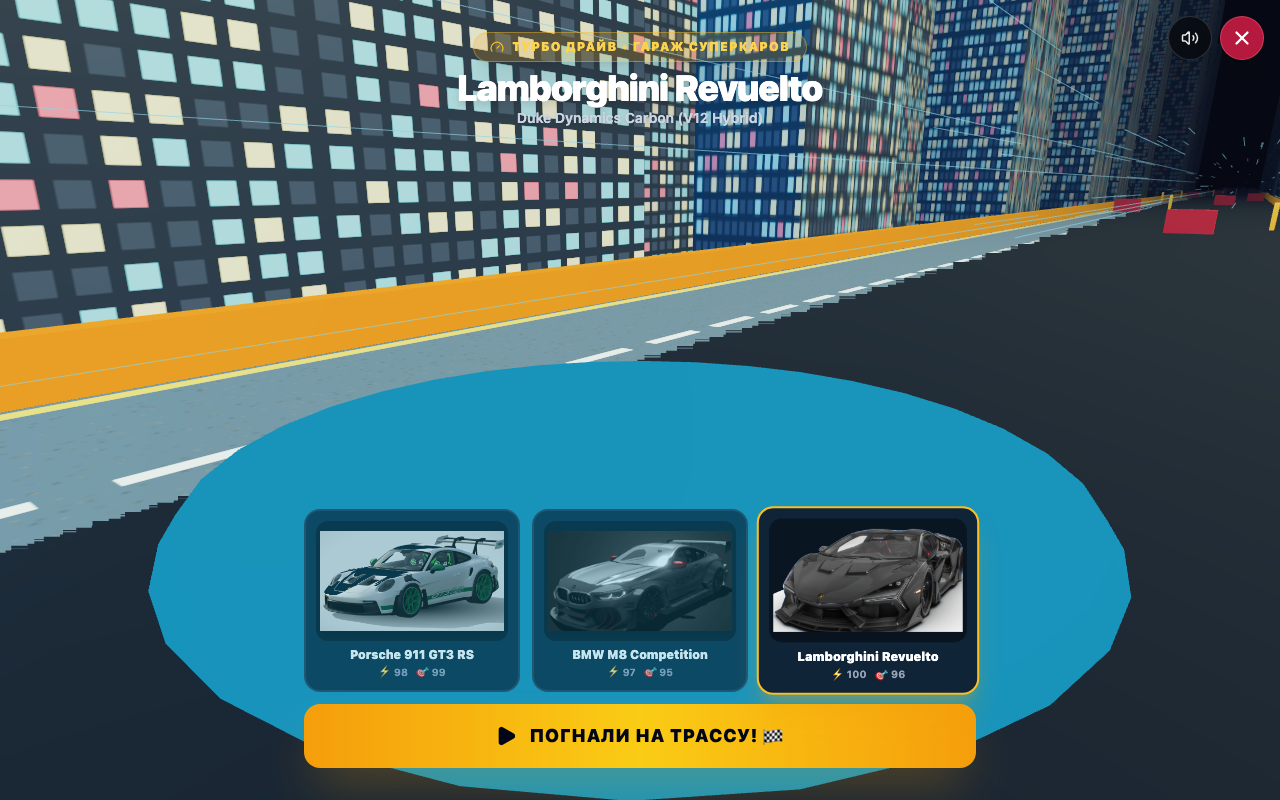
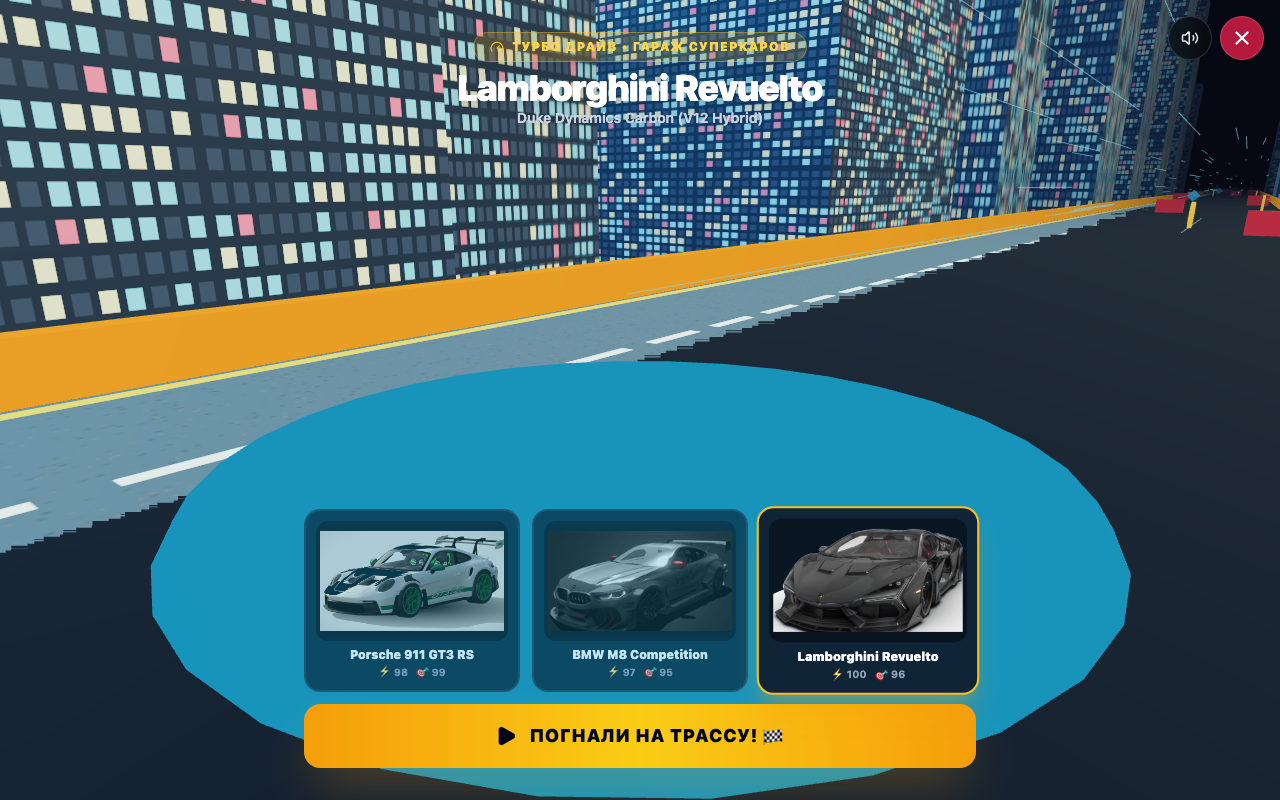
fix: eliminate directional shadow map stair-stepping on road, add collision jump bounce without shrinking, double gameplay duration with gentle progressive speed curve

diff --git a/app/components/games/CarHighwayGame.tsx b/app/components/games/CarHighwayGame.tsx
@@ -34,7 +34,7 @@ const CARS: CarInfo[] = [
     speedStat: 98,
     handlingStat: 99,
     nitroStat: 95,
-    scale: 3.0,
+    scale: 3.1,
     rotationY: Math.PI,
     yOffset: 0.02,
   },
@@ -47,7 +47,7 @@ const CARS: CarInfo[] = [
     speedStat: 97,
     handlingStat: 95,
     nitroStat: 97,
-    scale: 3.1,
+    scale: 3.2,
     rotationY: 0,
     yOffset: 0.02,
   },
@@ -60,13 +60,13 @@ const CARS: CarInfo[] = [
     speedStat: 100,
     handlingStat: 96,
     nitroStat: 99,
-    scale: 3.1,
+    scale: 3.2,
     rotationY: 0,
     yOffset: 0.03,
   },
 ];
 
-// Single Baked 4-Lane Asphalt Road Texture (Zero Z-Fighting)
+// Single Baked 4-Lane Asphalt Road Texture (Zero Z-Fighting, Zero Shadow Glitches)
 function generateHighwayTextures() {
   const roadCanvas = document.createElement("canvas");
   roadCanvas.width = 512;
@@ -78,7 +78,7 @@ function generateHighwayTextures() {
     rCtx.fillRect(0, 0, 512, 512);
 
     // Fine asphalt grain noise
-    for (let i = 0; i < 6000; i++) {
+    for (let i = 0; i < 7000; i++) {
       const x = Math.random() * 512;
       const y = Math.random() * 512;
       const g = Math.floor(25 + Math.random() * 22);
@@ -306,7 +306,7 @@ interface CarHighwayGameProps {
 export default function CarHighwayGame({
   onClose,
   onVictory,
-  targetScore = 300,
+  targetScore = 500, // Doubled duration for long satisfying race!
 }: CarHighwayGameProps) {
   const mountRef = useRef<HTMLDivElement | null>(null);
   const audioSysRef = useRef<CarAudioSystem>(new CarAudioSystem());
@@ -330,11 +330,12 @@ export default function CarHighwayGame({
     score: 0,
     stars: 0,
     hearts: 3,
-    baseSpeed: 42,
-    speed: 42,
+    baseSpeed: 38,
+    speed: 38,
     targetX: 1.25,
     playerX: 1.25,
     playerZ: -4.2, // Pushed forward so 100% of car body is visible in viewport!
+    jumpY: 0,
     roadWidth: 10.0,
     roadLength: 500,
     invincibleTimer: 0,
@@ -375,6 +376,7 @@ export default function CarHighwayGame({
     }
     gameRef.current.targetX = 1.25;
     gameRef.current.playerX = 1.25;
+    gameRef.current.jumpY = 0;
 
     if (gameRef.current.turntableMesh) {
       gameRef.current.turntableMesh.visible = false;
@@ -399,6 +401,7 @@ export default function CarHighwayGame({
     gameRef.current.speed = gameRef.current.baseSpeed;
     gameRef.current.playerX = 1.25;
     gameRef.current.targetX = 1.25;
+    gameRef.current.jumpY = 0;
 
     if (gameRef.current.camera) {
       gameRef.current.camera.position.set(2.8, 1.8, 1.8);
@@ -428,6 +431,7 @@ export default function CarHighwayGame({
     gameRef.current.speed = gameRef.current.baseSpeed;
     gameRef.current.playerX = 1.25;
     gameRef.current.targetX = 1.25;
+    gameRef.current.jumpY = 0;
     gameRef.current.invincibleTimer = 0;
 
     if (gameRef.current.camera) {
@@ -491,8 +495,6 @@ export default function CarHighwayGame({
 
         model.traverse((child) => {
           if ((child as THREE.Mesh).isMesh) {
-            child.castShadow = true;
-            child.receiveShadow = true;
             const mat = (child as THREE.Mesh).material as THREE.MeshStandardMaterial;
             if (mat && car.id === "lambo") {
               mat.roughness = 0.22;
@@ -531,7 +533,7 @@ export default function CarHighwayGame({
     // 1. Scene
     const scene = new THREE.Scene();
     scene.background = new THREE.Color(0x060913);
-    scene.fog = new THREE.FogExp2(0x0a101f, 0.01);
+    scene.fog = new THREE.FogExp2(0x0a101f, 0.008);
     gameRef.current.scene = scene;
 
     // 2. Camera
@@ -540,32 +542,27 @@ export default function CarHighwayGame({
     camera.lookAt(0, 0.5, -1.8);
     gameRef.current.camera = camera;
 
-    // 3. Renderer
+    // 3. Renderer (Clean 60fps, No shadow-map stair-stepping glitches)
     const renderer = new THREE.WebGLRenderer({ antialias: true, alpha: false, powerPreference: "high-performance" });
     renderer.setSize(width, height);
     renderer.setPixelRatio(Math.min(window.devicePixelRatio, 2));
-    renderer.shadowMap.enabled = true;
-    renderer.shadowMap.type = THREE.PCFSoftShadowMap;
     renderer.toneMapping = THREE.ACESFilmicToneMapping;
     renderer.toneMappingExposure = 1.35;
     container.appendChild(renderer.domElement);
 
     // 4. Lighting
-    const hemiLight = new THREE.HemisphereLight(0x7dd3fc, 0x1e1b4b, 2.0);
+    const hemiLight = new THREE.HemisphereLight(0x7dd3fc, 0x1e1b4b, 2.2);
     scene.add(hemiLight);
 
-    const sunLight = new THREE.DirectionalLight(0xfef08a, 3.2);
+    const sunLight = new THREE.DirectionalLight(0xfef08a, 2.6);
     sunLight.position.set(25, 45, -15);
-    sunLight.castShadow = true;
-    sunLight.shadow.mapSize.width = 1024;
-    sunLight.shadow.mapSize.height = 1024;
     scene.add(sunLight);
 
-    const rimLight = new THREE.DirectionalLight(0x38bdf8, 2.4);
+    const rimLight = new THREE.DirectionalLight(0x38bdf8, 2.2);
     rimLight.position.set(-25, 20, 20);
     scene.add(rimLight);
 
-    const spotLight = new THREE.SpotLight(0xffffff, 5.0, 30, Math.PI / 4, 0.3);
+    const spotLight = new THREE.SpotLight(0xffffff, 4.0, 30, Math.PI / 4, 0.3);
     spotLight.position.set(0, 12, -1.8);
     spotLight.target.position.set(0, 0, -1.8);
     scene.add(spotLight);
@@ -587,7 +584,6 @@ export default function CarHighwayGame({
     const roadMesh = new THREE.Mesh(roadGeo, roadMat);
     roadMesh.rotation.x = -Math.PI / 2;
     roadMesh.position.set(0, 0, -roadLength / 2 + 20);
-    roadMesh.receiveShadow = true;
     scene.add(roadMesh);
 
     // Glowing Bridge Guardrails (at x = -5.15 and +5.15)
@@ -730,7 +726,6 @@ export default function CarHighwayGame({
 
       const barrierMesh = new THREE.Mesh(barrierGeo, barrierMat);
       barrierMesh.position.set(LANES[obstacleLane1], 0.45, zPos);
-      barrierMesh.castShadow = true;
       scene.add(barrierMesh);
       itemsPool.push({
         mesh: barrierMesh,
@@ -854,7 +849,8 @@ export default function CarHighwayGame({
       }
 
       if (gameRef.current.running) {
-        const speedFactor = 1 + Math.min(gameRef.current.score / 220, 1.4);
+        // Progressive gentle speed curve (max 1.35x cap, steady comfortable duration!)
+        const speedFactor = 1 + Math.min(gameRef.current.score / 400, 0.35);
         gameRef.current.speed = gameRef.current.baseSpeed * speedFactor;
         setSpeedMultiplier(parseFloat(speedFactor.toFixed(1)));
         audioSysRef.current.updateEnginePitch(speedFactor);
@@ -880,10 +876,15 @@ export default function CarHighwayGame({
         carRoot.position.x = gameRef.current.playerX;
         carRoot.position.z = gameRef.current.playerZ;
 
+        // Jump impulse decay
+        if (gameRef.current.jumpY > 0) {
+          gameRef.current.jumpY = Math.max(0, gameRef.current.jumpY - delta * 2.2);
+        }
+
         const steerRoll = -dx * 0.18;
         carRoot.rotation.z = THREE.MathUtils.lerp(carRoot.rotation.z, steerRoll, delta * 14);
         carRoot.rotation.y = THREE.MathUtils.lerp(carRoot.rotation.y, dx * 0.15, delta * 12);
-        carRoot.position.y = 0.04 + Math.sin(time * 30) * 0.008;
+        carRoot.position.y = 0.04 + gameRef.current.jumpY + Math.sin(time * 30) * 0.008;
 
         if (gameRef.current.invincibleTimer > 0) {
           gameRef.current.invincibleTimer -= delta;
@@ -945,10 +946,9 @@ export default function CarHighwayGame({
                 item.mesh.visible = false;
                 gameRef.current.hearts -= 1;
                 gameRef.current.invincibleTimer = 1.6;
+                gameRef.current.jumpY = 0.35; // Nice bouncy collision jump that smoothly settles back down!
                 audioSysRef.current.playCrash();
                 setHearts(gameRef.current.hearts);
-
-                camera.position.y += 0.35;
 
                 if (gameRef.current.hearts <= 0) {
                   gameRef.current.running = false;
@@ -1178,7 +1178,7 @@ export default function CarHighwayGame({
         )}
       </AnimatePresence>
 
-      {/* GAME OVER MODAL (WIDE, SPACIOUS, MATCHES DESIGN SYSTEM) */}
+      {/* GAME OVER MODAL */}
       <AnimatePresence>
         {gameState === "gameover" && (
           <motion.div

diff --git a/app/components/games/DragonSnowGame.tsx b/app/components/games/DragonSnowGame.tsx
@@ -22,7 +22,6 @@ function createWinterPineTree() {
   const trunkMat = new THREE.MeshStandardMaterial({ color: 0x3f2d21, roughness: 0.9 });
   const trunk = new THREE.Mesh(trunkGeo, trunkMat);
   trunk.position.y = 1.1;
-  trunk.castShadow = true;
   tree.add(trunk);
 
   const foliageMat = new THREE.MeshStandardMaterial({ color: 0x164e3b, roughness: 0.85, flatShading: true });
@@ -37,7 +36,6 @@ function createWinterPineTree() {
   layers.forEach((l) => {
     const cone = new THREE.Mesh(new THREE.ConeGeometry(l.r, l.h, 7), foliageMat);
     cone.position.y = l.y;
-    cone.castShadow = true;
     tree.add(cone);
 
     const cap = new THREE.Mesh(new THREE.ConeGeometry(l.r * 0.82, l.h * 0.45, 7), snowCapMat);
@@ -153,7 +151,7 @@ class SoundEngine {
 export default function DragonSnowGame({
   onClose,
   onVictory,
-  targetScore = 300,
+  targetScore = 500, // Doubled duration for long satisfying run!
 }: DragonSnowGameProps) {
   const mountRef = useRef<HTMLDivElement | null>(null);
   const soundEngineRef = useRef<SoundEngine>(new SoundEngine());
@@ -179,6 +177,7 @@ export default function DragonSnowGame({
     targetX: 0,
     playerX: 0,
     playerZ: -2.0,
+    jumpY: 0,
     gullyRadius: 4.8,
     gullyDepth: 1.2,
     slopeDropRatio: 0.18,
@@ -226,6 +225,7 @@ export default function DragonSnowGame({
     gameRef.current.speed = gameRef.current.baseSpeed;
     gameRef.current.playerX = 0;
     gameRef.current.targetX = 0;
+    gameRef.current.jumpY = 0;
     gameRef.current.invincibleTimer = 0;
 
     gameRef.current.items.forEach((item, idx) => {
@@ -259,21 +259,16 @@ export default function DragonSnowGame({
     const renderer = new THREE.WebGLRenderer({ antialias: true, alpha: false, powerPreference: "high-performance" });
     renderer.setSize(width, height);
     renderer.setPixelRatio(Math.min(window.devicePixelRatio, 2));
-    renderer.shadowMap.enabled = true;
-    renderer.shadowMap.type = THREE.PCFSoftShadowMap;
     renderer.toneMapping = THREE.ACESFilmicToneMapping;
     renderer.toneMappingExposure = 1.3;
     container.appendChild(renderer.domElement);
 
     // 4. Lighting
-    const hemiLight = new THREE.HemisphereLight(0xf0f9ff, 0x1e3a8a, 1.8);
+    const hemiLight = new THREE.HemisphereLight(0xf0f9ff, 0x1e3a8a, 2.0);
     scene.add(hemiLight);
 
-    const sunLight = new THREE.DirectionalLight(0xfffaed, 2.8);
+    const sunLight = new THREE.DirectionalLight(0xfffaed, 2.6);
     sunLight.position.set(25, 45, 15);
-    sunLight.castShadow = true;
-    sunLight.shadow.mapSize.width = 1024;
-    sunLight.shadow.mapSize.height = 1024;
     scene.add(sunLight);
 
     // 5. Solid Natural Downhill Snow Run Ground Mesh
@@ -340,7 +335,6 @@ export default function DragonSnowGame({
     });
     const groundMesh = new THREE.Mesh(groundGeo, groundMat);
     groundMesh.position.set(0, 0, groundZCenter);
-    groundMesh.receiveShadow = true;
     scene.add(groundMesh);
 
     // 6. Winter Pine Trees (Planted Firmly on Ground Banks)
@@ -449,18 +443,11 @@ export default function DragonSnowGame({
         const size = box.getSize(new THREE.Vector3());
         const center = box.getCenter(new THREE.Vector3());
         const maxDim = Math.max(size.x, size.y, size.z);
-        const scale = 2.1 / maxDim; // slightly more compact
+        const scale = 2.1 / maxDim;
         model.scale.set(scale, scale, scale);
 
         model.position.set(-center.x * scale, -box.min.y * scale + 0.02, -center.z * scale);
         model.rotation.y = Math.PI;
-
-        model.traverse((child) => {
-          if ((child as THREE.Mesh).isMesh) {
-            child.castShadow = true;
-            child.receiveShadow = true;
-          }
-        });
 
         dragonRoot.add(model);
         setGameState("ready");
@@ -513,7 +500,6 @@ export default function DragonSnowGame({
       const gullyY = Math.pow(absX / gameRef.current.gullyRadius, 2) * gameRef.current.gullyDepth;
       const slopeY = zPos * gameRef.current.slopeDropRatio;
       rockMesh.position.set(LANES[obsLane1], slopeY + gullyY + 0.65, zPos);
-      rockMesh.castShadow = true;
       scene.add(rockMesh);
       itemsPool.push({
         mesh: rockMesh,
@@ -550,7 +536,7 @@ export default function DragonSnowGame({
     }
     gameRef.current.items = itemsPool;
 
-    // 10. Controls: Clamped strictly to outer lane limits so no player can bypass rocks
+    // 10. Controls: Clamped strictly to outer lane limits
     let isPointerDown = false;
     let startPointerX = 0;
     let startPlayerX = 0;
@@ -565,7 +551,7 @@ export default function DragonSnowGame({
       if (!isPointerDown) return;
       const deltaX = e.clientX - startPointerX;
       const sensitivity = 0.022;
-      const maxX = 3.85; // Strict clamping to 5 lanes
+      const maxX = 3.85;
       gameRef.current.targetX = THREE.MathUtils.clamp(
         startPlayerX + deltaX * sensitivity,
         -maxX,
@@ -632,7 +618,8 @@ export default function DragonSnowGame({
       }
 
       if (gameRef.current.running) {
-        const speedFactor = 1 + Math.min(gameRef.current.score / 250, 1.25);
+        // Progressive gentle speed curve (max 1.35x cap, steady comfortable duration!)
+        const speedFactor = 1 + Math.min(gameRef.current.score / 400, 0.35);
         gameRef.current.speed = gameRef.current.baseSpeed * speedFactor;
         setSpeedMultiplier(parseFloat(speedFactor.toFixed(1)));
 
@@ -642,10 +629,14 @@ export default function DragonSnowGame({
         dragonRoot.position.x = gameRef.current.playerX;
         dragonRoot.position.z = gameRef.current.playerZ;
 
+        if (gameRef.current.jumpY > 0) {
+          gameRef.current.jumpY = Math.max(0, gameRef.current.jumpY - delta * 2.2);
+        }
+
         const absX = Math.abs(gameRef.current.playerX);
         const gullyY = Math.pow(absX / gameRef.current.gullyRadius, 2) * gameRef.current.gullyDepth;
         const playerSlopeY = gameRef.current.playerZ * gameRef.current.slopeDropRatio;
-        dragonRoot.position.y = playerSlopeY + 0.12 + gullyY + Math.sin(time * 10) * 0.03;
+        dragonRoot.position.y = playerSlopeY + 0.12 + gullyY + gameRef.current.jumpY + Math.sin(time * 10) * 0.03;
 
         const normX = gameRef.current.playerX / gameRef.current.gullyRadius;
         const bankAngle = -dx * 0.28 - normX * 0.22;
@@ -768,10 +759,9 @@ export default function DragonSnowGame({
                 item.mesh.visible = false;
                 gameRef.current.hearts -= 1;
                 gameRef.current.invincibleTimer = 1.6;
+                gameRef.current.jumpY = 0.35; // Bouncy collision jump without permanent camera displacement!
                 soundEngineRef.current.playHit();
                 setHearts(gameRef.current.hearts);
-
-                camera.position.y += 0.3;
 
                 if (gameRef.current.hearts <= 0) {
                   gameRef.current.running = false;
